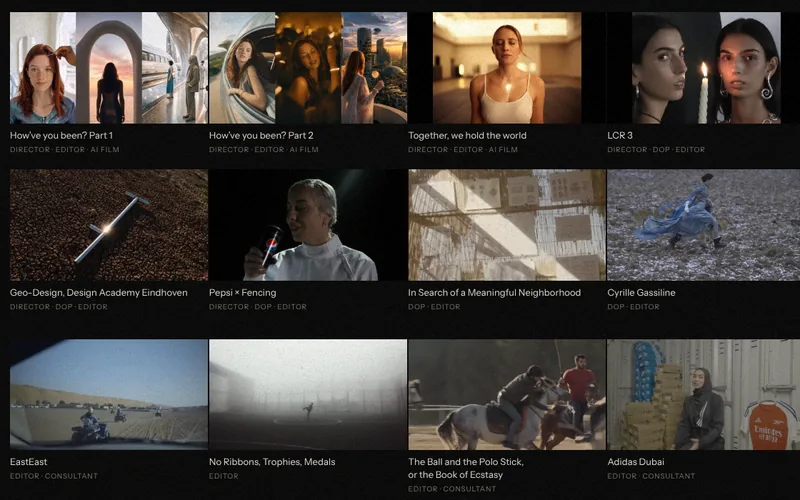
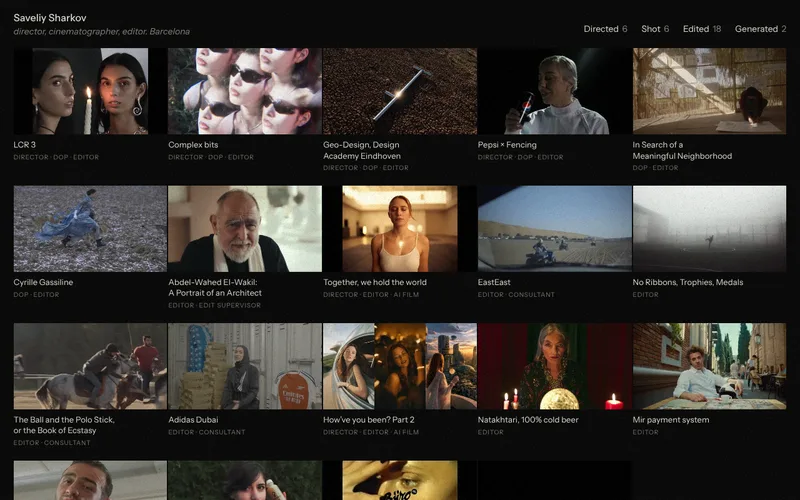
About: two portfolios with previews on top, then CV, then the five sites
- The video portfolio and the MAIAD portfolio (the PDF) open the list as
  two large previews; on phones they stack.
- The CV button stands alone below them; the separate "portfolio" button
  is gone, since the MAIAD card now leads there.
- The grid underneath keeps the five sites: AI archive, pattern sheets,
  cat game, Liveness Check, Rude Answering Machine.
- New preview of the work page as it is now, and a preview of the PDF's
  first page.

Claude-Session: https://claude.ai/code/session_01DduyvCFi7FthDNafZNXpzg

diff --git a/about.html b/about.html
@@ -71,6 +71,16 @@
     border-color: rgba(255,255,255,0.92);
   }
 
+  /* ================== PORTFOLIO (два больших превью наверху) ================== */
+  .featured {
+    display: grid;
+    grid-template-columns: repeat(2, 1fr);
+    gap: 16px 14px;
+    margin-top: 40px;
+  }
+  .featured .site { font-size: 12px; }
+  .featured + .btns { margin-top: 30px; }
+
   /* ================== SITES (мини-превью) ================== */
   .sites {
     display: grid;
@@ -121,6 +131,7 @@
   @media (max-width: 640px) {
     .content { padding: 90px 20px 120px; }
     .sites { grid-template-columns: repeat(2, 1fr); gap: 16px 12px; }
+    .featured { grid-template-columns: 1fr; gap: 18px; }
     .back { position: absolute; top: 20px; bottom: auto; }
     .hint { display: none; }
   }
@@ -294,8 +305,17 @@ window.addEventListener('touchstart', startAudio);
 <div class="content">
     <p>Artist, filmmaker and curator working with moving and still image, installation, performance, sound and food.</p>
     <p>Currently MA in Applied AI for Arts and Design, Elisava, Barcelona.</p>
+  <nav class="featured" aria-label="portfolio">
+    <a class="site" href="/work/">
+      <span class="pic"><img src="links/work.webp" alt="" loading="lazy"></span>
+      <span class="name">video portfolio</span>
+    </a>
+    <a class="site" href="portfolio.html">
+      <span class="pic"><img src="links/portfolio-maiad.webp" alt="" loading="lazy"></span>
+      <span class="name">portfolio for MAIAD</span>
+    </a>
+  </nav>
   <div class="btns">
-    <a class="cv-btn" href="portfolio.html">portfolio →</a>
     <a class="cv-btn" href="cv.pdf" target="_blank" rel="noopener">cv →</a>
   </div>
   <nav class="sites" aria-label="sites">
@@ -314,10 +334,6 @@ window.addEventListener('touchstart', startAudio);
     <a class="site" href="https://livenesscheck.vercel.app/" target="_blank" rel="noopener">
       <span class="pic"><img src="links/liveness.webp" alt="" loading="lazy"></span>
       <span class="name">Liveness Check</span>
-    </a>
-    <a class="site" href="/work/">
-      <span class="pic"><img src="links/work.webp" alt="" loading="lazy"></span>
-      <span class="name">video portfolio</span>
     </a>
     <a class="site" href="/rude-answering-machine/">
       <span class="pic"><img src="links/rude.webp" alt="" loading="lazy"></span>
